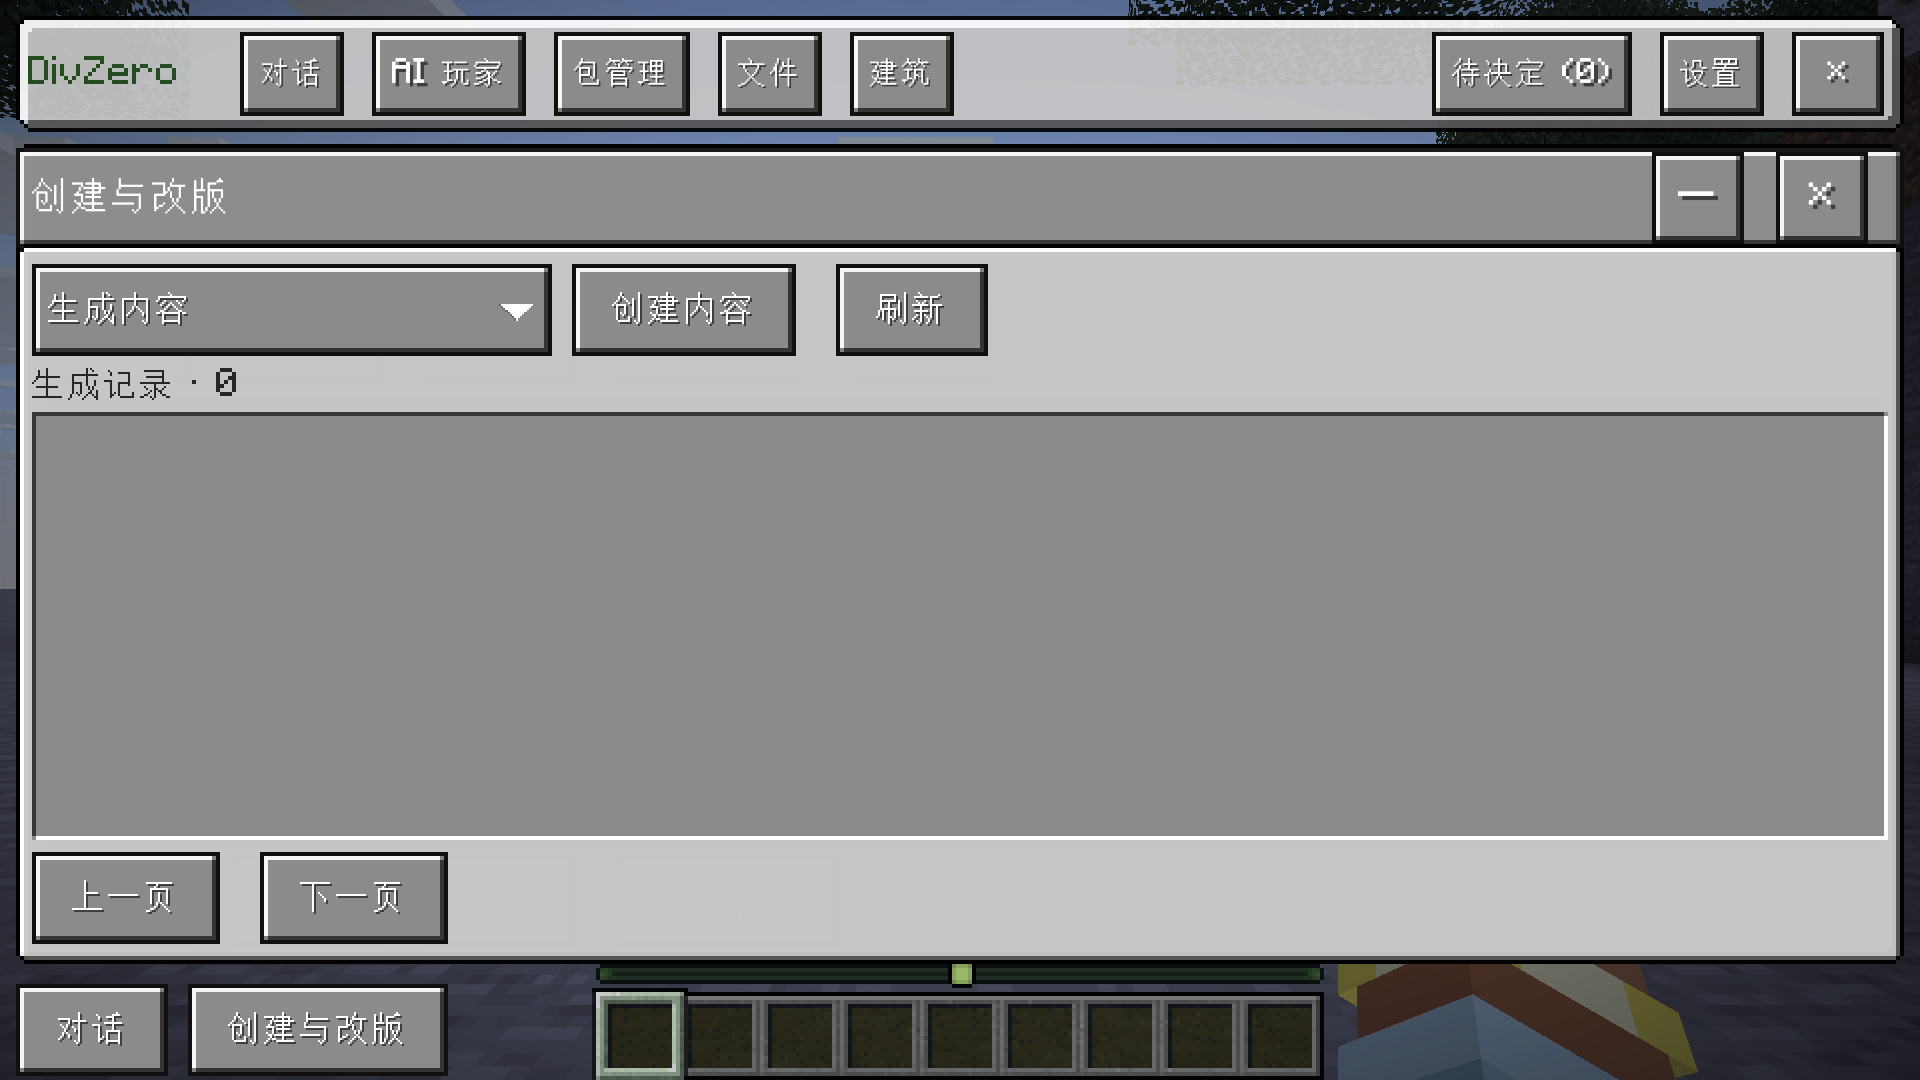
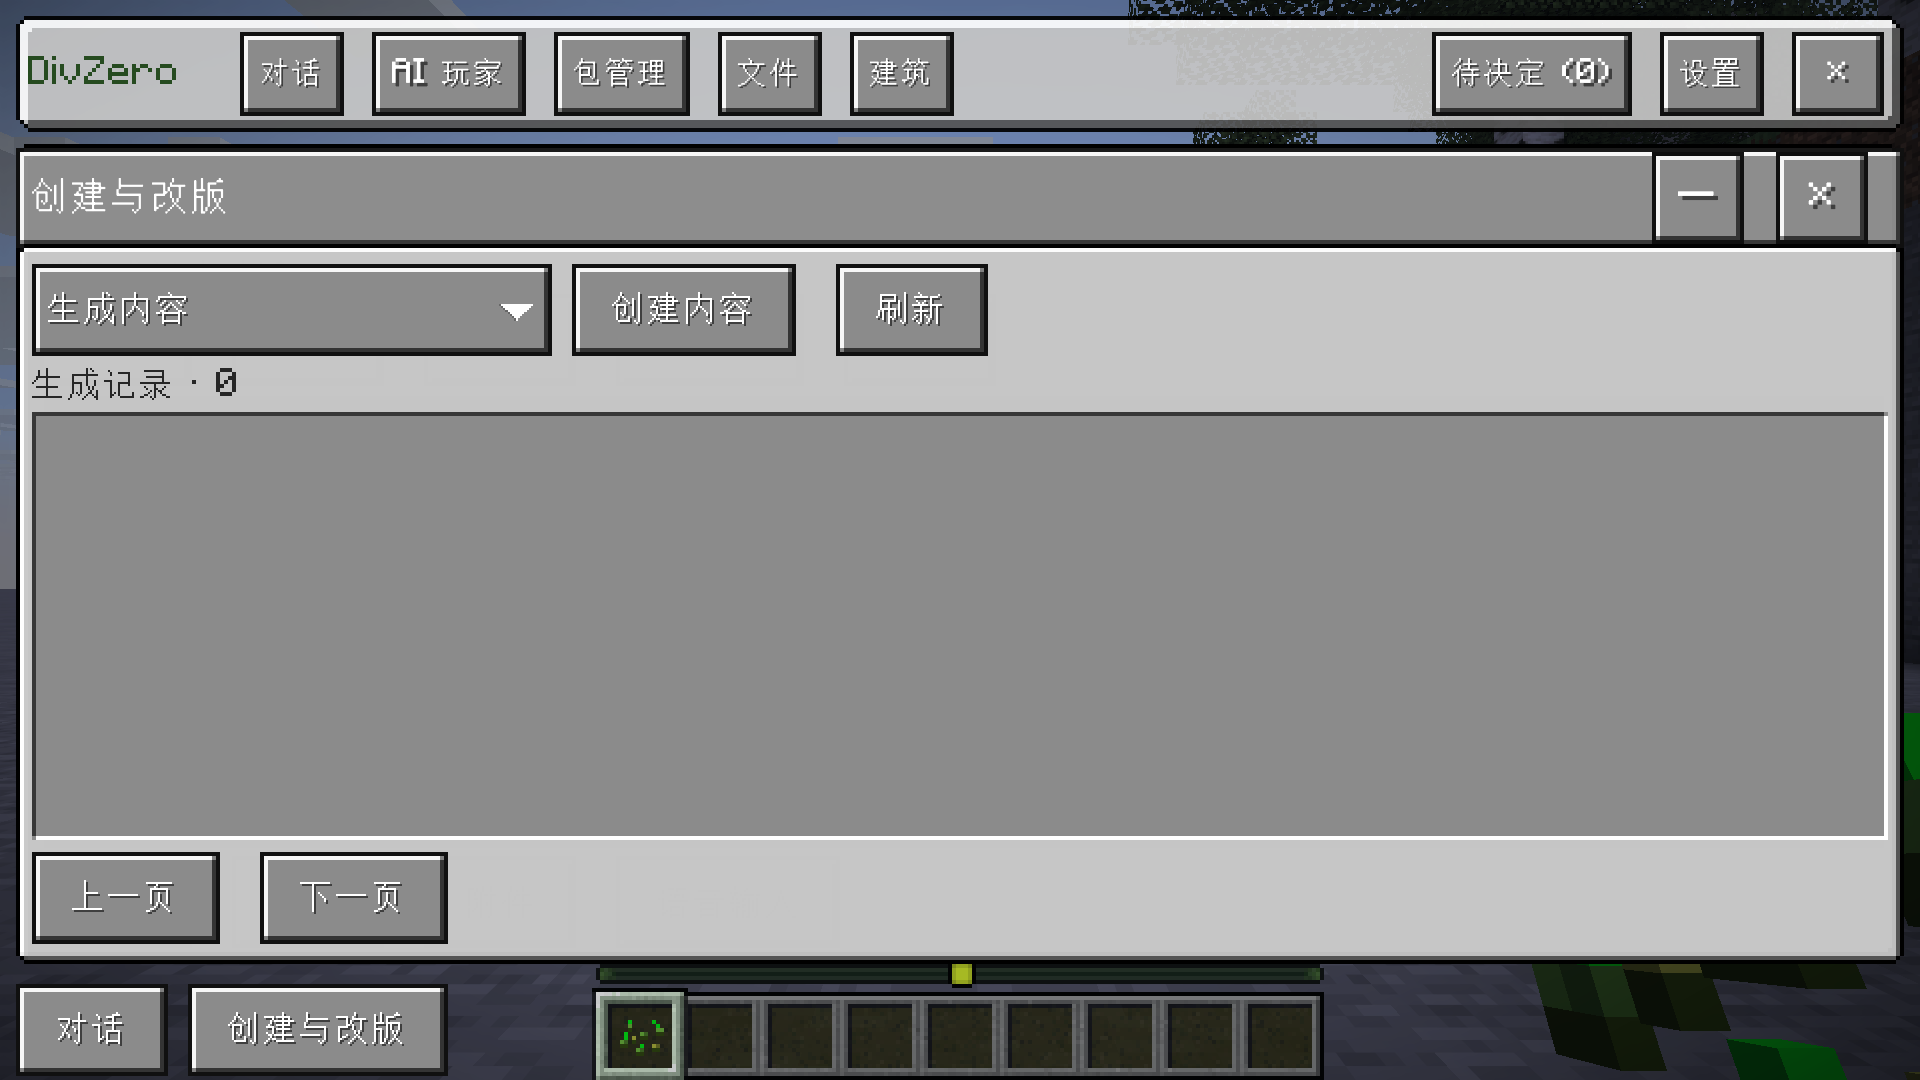
Record the verified complete UI test package and final native screenshots

diff --git a/docs/images/README.md b/docs/images/README.md
@@ -69,7 +69,7 @@
 
 | 图片 | 实际场景 | SHA-256 |
 |---|---|---|
[7 lines of base64/hex data omitted]

diff --git a/docs/native-workspace-integration.md b/docs/native-workspace-integration.md
@@ -71,3 +71,12 @@ public `480f0c6` / Actions `36682941583` 的隔离运行 `741d9d76-70a1-46cf-805
 
 
 会话与背包综合回归 `15870941-eac5-4a91-8779-24badc51113a`（public `48cd619` / Actions `36686561756`）通过会话切换、分页、下拉松开选择、设置内的尺寸入口、输入法及焦点稳定、真实库存／盔甲、Shift／数字键／拆分／拖拽、原生命令补全和建筑验证。失败的 `abfeec6a-34f6-4306-9561-d0d152953a83` 与 `f794023b-cd63-4d8a-bee9-bd5da2be35c1` 保留：数字键测试改为等待实际原生槽位悬停，并使用原生窗口坐标发送鼠标移动回调，未修改库存业务逻辑来绕过检查。
+
+
+## 最终测试包
+
[1 lines of base64/hex data omitted]
+
+这份相同二进制又通过 `7e7deb34-45a8-42f1-8d8f-ecb7f9ed9748` 的尺寸 4 布局／自定义输入提示／图形报告检查，以及 `3f82eae8-09f3-4b67-8bb6-8fcc11c61fbb` 的内容目录实时刷新与物品名搜索检查。最终截图已复查并同步。后续证据文档提交不改变此已验证二进制。
+
+测试包包含主模组、LDLib2、KubeJS 和 Better Advanced Tooltips，未包含 MCEF、JCEF 或 WebGUI。未安装到生产目录，未自动创建 Release。
